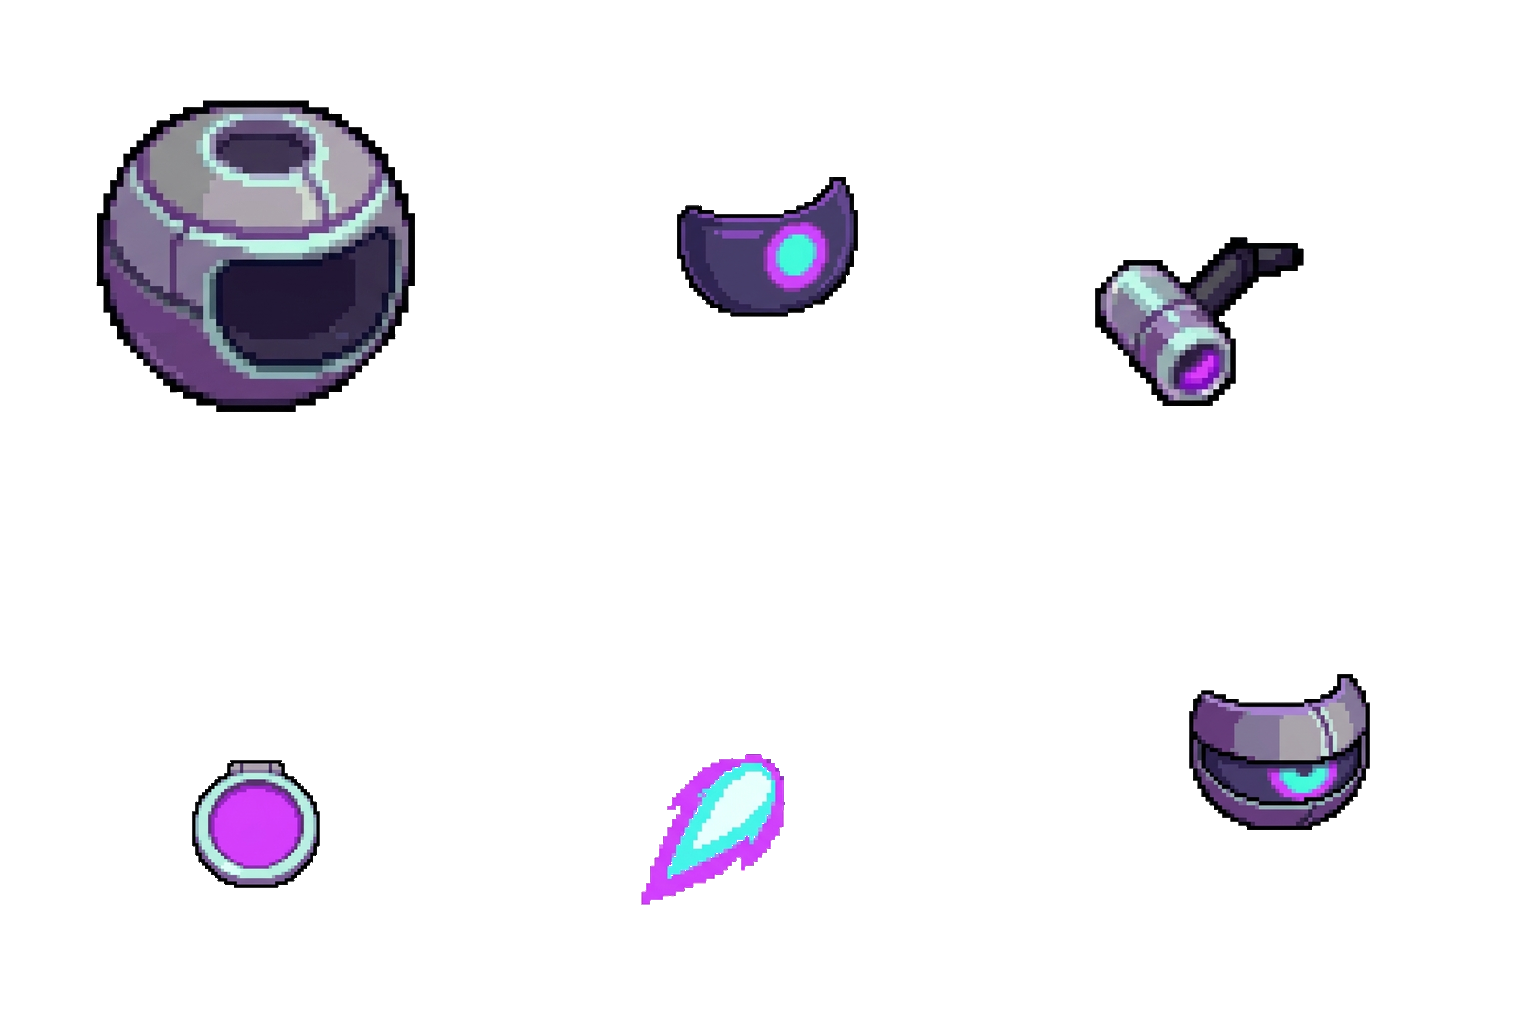
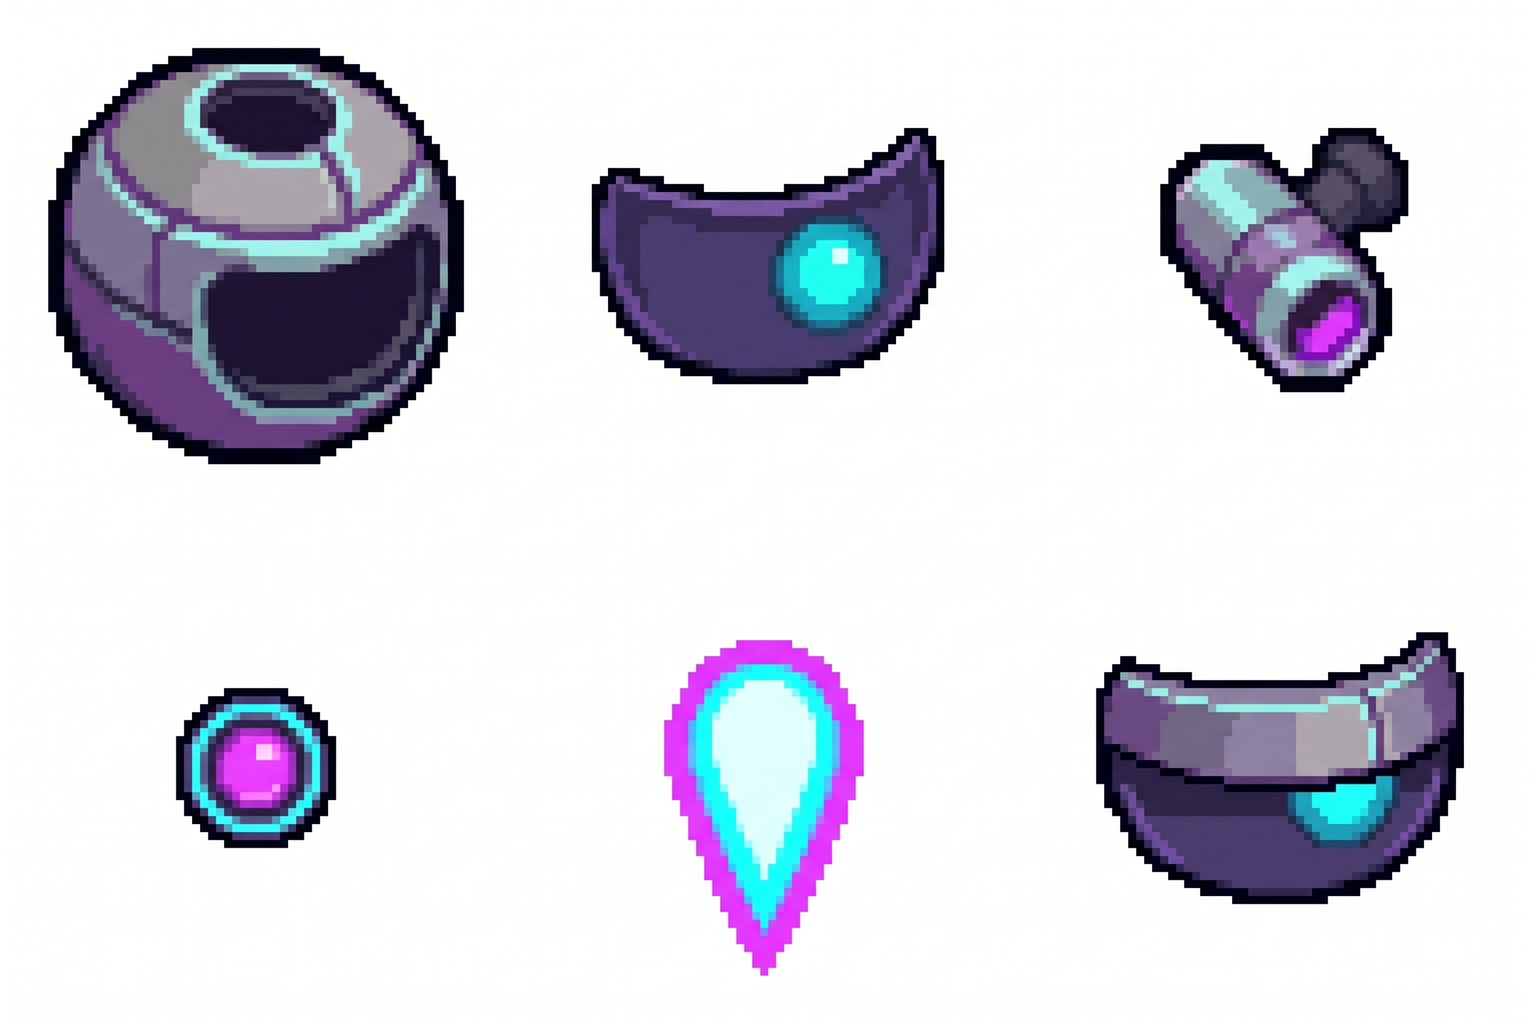
art(m11): Drohne Sheet v2 (art:gen) — kompakte Gondeln, senkrechte Flamme; Rig neu abgestimmt
Claude-Session: https://claude.ai/code/session_016nKYwmGLoh3i5vCWZp4iPB

diff --git a/src/dungeon/anim/rigs/drone.ts b/src/dungeon/anim/rigs/drone.ts
@@ -73,8 +73,8 @@ function dronePose(e: Enemy, time: number, lookDx: number, lookDy: number): Pose
     nacelleR: { rot: nR.rot, dy: nR.dy },
     flameL: fl,
     flameR: fr,
-    visor: { variant: tele || k > 0.3 ? 1 : 0, dx: aim * 0.6 + 0.6 * p, dy: aim * 1.6 },
-    lens: { hidden: !tele && k <= 0.02, alpha: tele ? 0.3 + 0.7 * p : k, sx: 0.4 + 0.6 * p + 0.3 * k, sy: 0.4 + 0.6 * p + 0.3 * k },
+    visor: { variant: tele || k > 0.3 ? 1 : 0, dx: aim * 0.6 + 0.6 * p, dy: aim * 1.6, sx: 0.68, sy: 0.68 },
+    lens: { hidden: !tele && k <= 0.02, alpha: tele ? 0.3 + 0.7 * p : k, sx: 0.3 + 0.4 * p + 0.2 * k, sy: 0.3 + 0.4 * p + 0.2 * k },
   };
 }
 

diff --git a/SPRITE_QUEUE.md b/SPRITE_QUEUE.md
@@ -111,6 +111,7 @@ Wer im Code oder in einem Plan ein neues benötigtes Sprite, ein neues M11-Sheet
 | ID | Status | Zieldatei | Typ & Format | Referenz (`ImagePaths`) | Brief / Prompt | Notiz |
 | :--- | :---: | :--- | :--- | :--- | :--- | :--- |
 | `P2-01` | [x] | `art_source/rigs/drone_rig.png` | Typ G · 3×2 · `1536×1024` | `public/art/sprites/drone.png` | `ART_BRIEF_M11_ENEMIES.md` §4 (S1) | ✅ Drohne (`min_margin ≥ 71 px`, `art:check` ok, bereit für Claude-Import) |
+| `P2-01b` | [x] | `art_source/rigs/drone_rig.png` (v2) | Typ G · 3×2 · `1536×1024` | `public/art/sprites/drone.png` | `ART_BRIEF_M11_ENEMIES.md` §3/§4 | ✅ per `art:gen` erzeugt (`art:check` ok), eingebunden. Ersatz, weil v1-Gondeln (Ausleger) im Spiel unnatürlich wirkten: kompakte, am Rumpf anliegende Düsen-Gondeln, senkrechte Flamme |
 | `P2-02` | [x] | `art_source/rigs/shield_drone_rig.png` | Typ G · 3×2 · `1536×1024` | `public/art/sprites/enemy_shield_drone.png` | `ART_BRIEF_M11_ENEMIES.md` §4 (S1) | ✅ Schild-Drohne (`min_margin ≥ 80 px`, `art:check` ok; Emitter-Ring Zelle 4 mit `holes: true` importieren) |
 | `P2-03` | [x] | `art_source/rigs/spore_spitter_rig.png` | Typ G · 3×2 · `1536×1024` | `public/art/sprites/enemy_spore_spitter.png` | `ART_BRIEF_M11_ENEMIES.md` §4 (S1) | ✅ Sporenspucker (Körper · Auge · Kapsel zu/offen · Spore · halb eingegraben; Gelenke im Fadenkreuz, `min_margin ≥ 85 px`, `art:check` ok) |
 | `P2-04` | [x] | `art_source/rigs/drone_arc_rig.png` | Typ G · 3×2 · `1536×1024` | `public/art/sprites/enemy_drone_arc.png` | `ART_BRIEF_M11_ENEMIES.md` §4 (S1) | ✅ Bogen-Drohne (Gold-Rumpf · Visier · linke Tesla-Spule · linke Düsen-Gondel · Funken klein/groß; Gelenke im Fadenkreuz, `min_margin ≥ 72 px`, `art:check` ok) |

diff --git a/handoff/enemy_drone.md b/handoff/enemy_drone.md
@@ -3,4 +3,5 @@
 
 - **Eingebunden (komplett):** Rumpf, Visier (offen/kneift), 2 Düsen-Gondeln (Code spiegelt rechts) + Flammen, Lade-Linse (`drone_rig.png`, Zellen 1–6 → body/visor/nacelle/lens/flame/visorHalf).
 - Verhalten: schwebt + neigt sich in Flugrichtung, Gondeln kippen mit, Flammen wachsen mit Tempo (Seiten-Dash!), Vorwarnung (0,46 s): Visier kneift, Linse glüht auf, Rumpf weicht zurück; Rückstoß je Bolzen (aus `subBurst`). Blick zum Spieler mit Totzone (Rig gespiegelt), kleiner Flieger-Schatten.
+- **Sheet v2 (art:gen, SPRITE_QUEUE `P2-01b`):** v1-Gondeln mit langem Ausleger wirkten im Spiel unnatürlich → neues Sheet: kompakte Gondel mit kurzem Stummel (hinter dem Rumpf links, vor dem Rumpf rechts), senkrechte Flamme, Visier-Glas/Halb-zu (im Code auf 0,68 skaliert, passt in die Rumpföffnung). Altes Sheet nur noch in der Git-Historie.
 - Fallback: altes `drone.png`. Abnahme im echten Kampf offen. Offen/optional: Zelle 4 war laut Brief „Klappe“, ist im Sheet aber eine Linse — als Lade-Linse genutzt; obere Rumpfklappe fehlt (nicht nötig).
